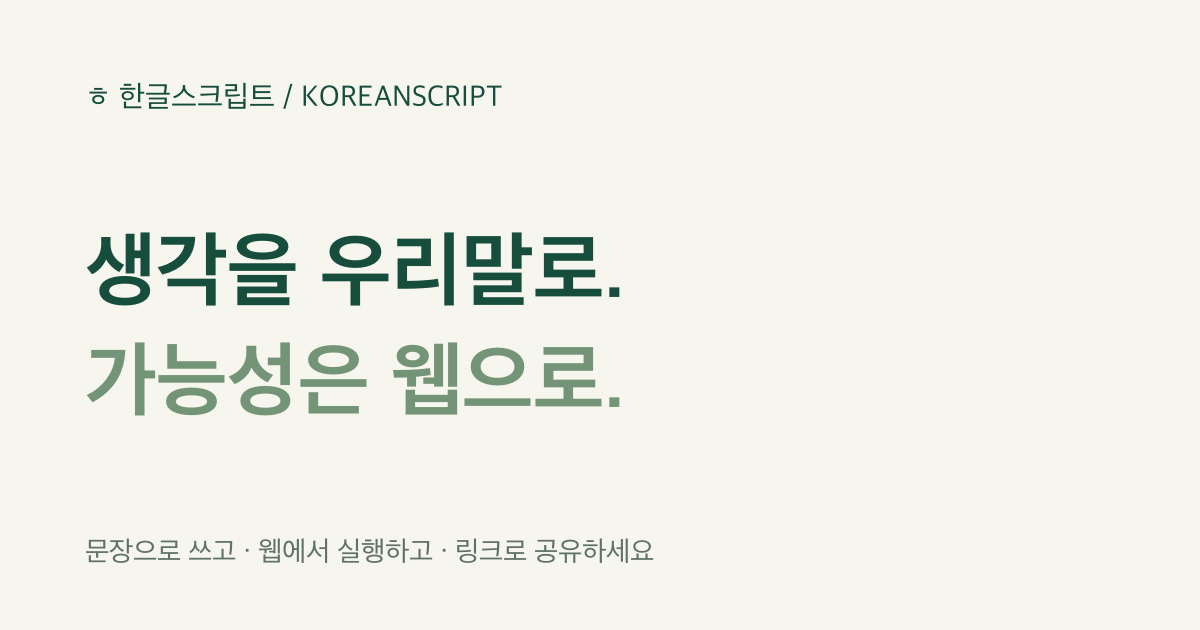
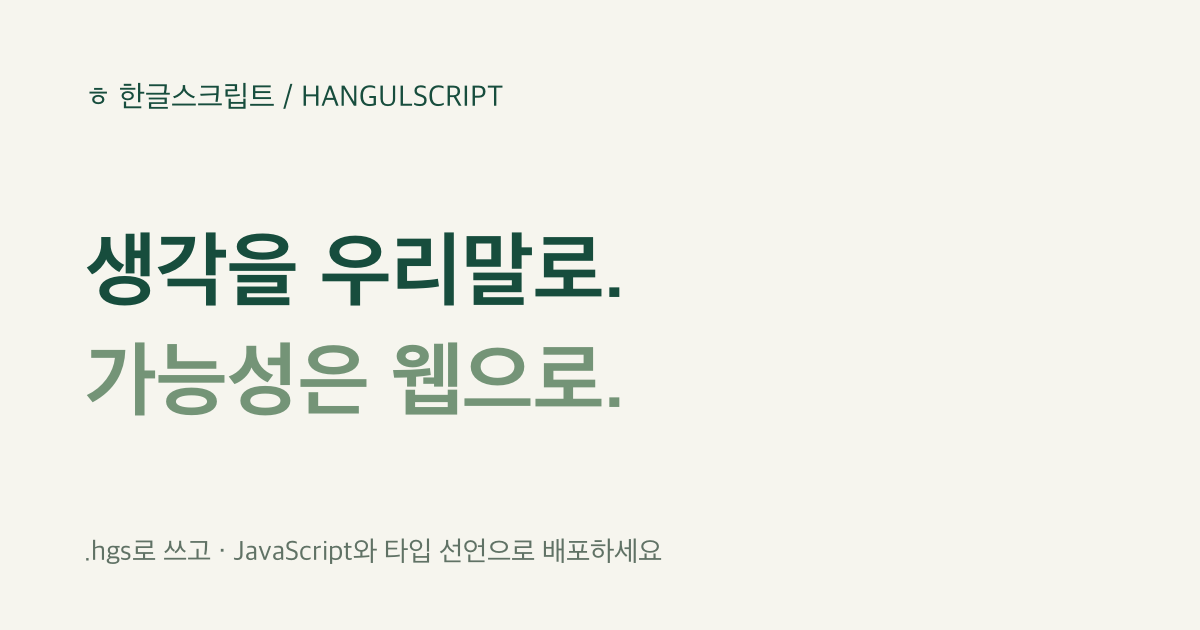
feat: rename to HangulScript with .hgs sources and new deployment identity

Changed region(s): [[0.0617, 0.8444, 0.555, 0.9048], [0.2467, 0.1206, 0.4008, 0.181]]

diff --git a/site/index.html b/site/index.html
@@ -3,23 +3,23 @@
 <head>
 <meta charset="UTF-8"><meta name="viewport" content="width=device-width,initial-scale=1">
 <title>한글스크립트 — 생각을 우리말로, 실행은 웹에서</title>
-<meta name="description" content="한글 문장으로 코딩하는 KoreanScript. 들여쓰기로 작성하고 JavaScript와 타입 선언으로 빌드하세요. 설치 없이 예제를 실행하고 코드 링크를 공유할 수 있습니다.">
-<link rel="canonical" href="https://koreanscript.vercel.app/">
-<meta property="og:title" content="한글스크립트 · 우리말로 시작하는 코드"><meta property="og:description" content="Python의 간결함과 웹의 가능성. 한글 문장을 코드로 바꾸고 공유하세요."><meta property="og:type" content="website"><meta property="og:locale" content="ko_KR"><meta property="og:url" content="https://koreanscript.vercel.app/"><meta property="og:image" content="https://koreanscript.vercel.app/og.png"><meta name="twitter:card" content="summary_large_image"><meta name="google-site-verification" content="sQbayCLifq40q8AiPmSlbnfZ_UPMLMyOuCmx8xxQyjI">
+<meta name="description" content="한글 문장으로 코딩하는 HangulScript. 들여쓰기로 작성하고 JavaScript와 타입 선언으로 빌드하세요. 설치 없이 예제를 실행하고 코드 링크를 공유할 수 있습니다.">
+<link rel="canonical" href="https://hangulscript.vercel.app/">
+<meta property="og:title" content="한글스크립트 · 우리말로 시작하는 코드"><meta property="og:description" content="Python의 간결함과 웹의 가능성. 한글 문장을 코드로 바꾸고 공유하세요."><meta property="og:type" content="website"><meta property="og:locale" content="ko_KR"><meta property="og:url" content="https://hangulscript.vercel.app/"><meta property="og:image" content="https://hangulscript.vercel.app/og.png"><meta name="twitter:card" content="summary_large_image"><meta name="google-site-verification" content="sQbayCLifq40q8AiPmSlbnfZ_UPMLMyOuCmx8xxQyjI">
 <meta name="naver-site-verification" content="686903581080affc302a02d57e276e1e5688c75b">
 <meta name="theme-color" content="#173d35">
 <link rel="icon" href="/icon.svg" type="image/svg+xml"><link rel="stylesheet" href="/style.css">
-<script type="application/ld+json">{"@context":"https://schema.org","@type":"SoftwareApplication","name":"한글스크립트","applicationCategory":"DeveloperApplication","operatingSystem":"Web","url":"https://koreanscript.vercel.app/","description":"한글 문장형 프로그래밍 언어와 온라인 실행 도구","offers":{"@type":"Offer","price":"0","priceCurrency":"KRW"},"codeRepository":"https://github.com/uiwwsw/koreanscript"}</script>
+<script type="application/ld+json">{"@context":"https://schema.org","@type":"SoftwareApplication","name":"한글스크립트","applicationCategory":"DeveloperApplication","operatingSystem":"Web","url":"https://hangulscript.vercel.app/","description":"한글 문장형 프로그래밍 언어와 온라인 실행 도구","offers":{"@type":"Offer","price":"0","priceCurrency":"KRW"},"codeRepository":"https://github.com/uiwwsw/hangulscript"}</script>
 <script type="module" src="/app.js"></script>
 </head>
 <body>
-<header><a class="brand" href="/" aria-label="한글스크립트 홈"><span class="mark">ㅎ</span> 한글스크립트 <small>0.3 실험판</small></a><nav><a href="#guide">문법 안내</a><a href="https://github.com/uiwwsw/koreanscript">GitHub ↗</a></nav></header>
+<header><a class="brand" href="/" aria-label="한글스크립트 홈"><span class="mark">ㅎ</span> 한글스크립트 <small>0.4 실험판</small></a><nav><a href="#guide">문법 안내</a><a href="https://github.com/uiwwsw/hangulscript">GitHub ↗</a></nav></header>
 <main>
-<section class="hero"><div><p class="eyebrow">KOREANSCRIPT / 생각과 코드 사이</p><h1>생각을 우리말로.<br><em>가능성은 웹으로.</em></h1><p class="intro">익숙한 문장으로 쓰고, 들여쓰기로 정리하세요.<br>Python의 간결함에 TypeScript의 웹 생태계를 더했습니다.</p><a class="primary" href="#playground">지금 한 문장 실행하기 <span>↘</span></a></div><aside class="note"><span>첫 번째 프로그램</span><pre>이름은 "세상"이다
-출력("안녕, " + 이름)</pre><div class="note-result">↳ 안녕, 세상</div><p>파일은 <b>.ks</b> · 배포는 JS + 타입 선언</p></aside></section>
+<section class="hero"><div><p class="eyebrow">HANGULSCRIPT / 생각과 코드 사이</p><h1>생각을 우리말로.<br><em>가능성은 웹으로.</em></h1><p class="intro">익숙한 문장으로 쓰고, 들여쓰기로 정리하세요.<br>Python의 간결함에 TypeScript의 웹 생태계를 더했습니다.</p><a class="primary" href="#playground">지금 한 문장 실행하기 <span>↘</span></a></div><aside class="note"><span>첫 번째 프로그램</span><pre>이름은 "세상"이다
+출력("안녕, " + 이름)</pre><div class="note-result">↳ 안녕, 세상</div><p>파일은 <b>.hgs</b> · 배포는 JS + 타입 선언</p></aside></section>
 <section id="playground" class="lab"><div class="section-head"><div><p class="eyebrow">01 / 직접 해보기</p><h2>작은 문장, 움직이는 프로그램.</h2></div><span class="pill">● 브라우저 안에서 실행</span></div>
-<div class="toolbar"><label>예제 <select id="example"><option value="calculator">도구 · 사칙연산 계산기</option><option value="discount">도구 · 할인 계산기</option><option value="statistics">도구 · 숫자 통계</option><option value="text">도구 · 문자열 정리기</option><option value="scores">문장형 · 성적 분석기</option><option value="hello">문장형 · 첫 인사</option><option value="loop">문장형 · 구구단</option><option value="legacy">기존 키워드형</option></select></label><div><button id="share">공유 링크 복사</button><button id="download">.ks 저장</button><button id="run" class="primary">실행하기 ▷</button></div></div>
-<form id="tool-inputs" class="tool-inputs" hidden aria-label="도구 입력값"></form><p class="fine">도구 입력값을 바꾸면 예제 코드가 다시 만들어집니다. 코드를 직접 편집하면 입력란은 숨겨집니다.</p><div class="editors"><div><div class="editor-label"><label for="source">내가 쓴 한글</label><span>main.ks</span></div><textarea id="source" spellcheck="false" aria-describedby="source-help"></textarea></div><div><div class="editor-label"><label for="compiled">변환된 TypeScript</label><span>main.ts</span></div><textarea id="compiled" readonly spellcheck="false"></textarea></div></div>
+<div class="toolbar"><label>예제 <select id="example"><option value="calculator">도구 · 사칙연산 계산기</option><option value="discount">도구 · 할인 계산기</option><option value="statistics">도구 · 숫자 통계</option><option value="text">도구 · 문자열 정리기</option><option value="scores">문장형 · 성적 분석기</option><option value="hello">문장형 · 첫 인사</option><option value="loop">문장형 · 구구단</option><option value="legacy">기존 키워드형</option></select></label><div><button id="share">공유 링크 복사</button><button id="download">.hgs 저장</button><button id="run" class="primary">실행하기 ▷</button></div></div>
+<form id="tool-inputs" class="tool-inputs" hidden aria-label="도구 입력값"></form><p class="fine">도구 입력값을 바꾸면 예제 코드가 다시 만들어집니다. 코드를 직접 편집하면 입력란은 숨겨집니다.</p><div class="editors"><div><div class="editor-label"><label for="source">내가 쓴 한글</label><span>main.hgs</span></div><textarea id="source" spellcheck="false" aria-describedby="source-help"></textarea></div><div><div class="editor-label"><label for="compiled">변환된 TypeScript</label><span>main.ts</span></div><textarea id="compiled" readonly spellcheck="false"></textarea></div></div>
 <div class="console"><div class="editor-label"><span>실행 결과</span><span id="status" role="status" aria-live="polite">실행을 눌러 주세요</span></div><pre id="output" aria-live="polite">여기에 프로그램의 출력이 나타납니다.</pre></div><p id="source-help" class="fine">공유된 코드는 자동 실행하지 않습니다. 실행은 격리된 환경에서 최대 2초 동안 진행됩니다. 브라우저 데모는 네트워크·DOM·외부 모듈을 제공하지 않습니다.</p>
 </section>
 <section id="guide" class="guide"><p class="eyebrow">02 / 문법의 출발점</p><h2>외울 것은 줄이고, 뜻은 또렷하게.</h2><div class="cards"><article><span>01</span><h3>문장으로 선언</h3><pre>나이는 20이다
@@ -43,6 +43,6 @@
     만약 나이 == 23 이라면:
         멈추기</pre><p>문장형 파일은 <code>문장으로 시작</code>으로 명시할 수 있습니다. 자유 자연어 해석, Python 호환 실행기, 전체 TypeScript 문법 지원을 의미하지는 않습니다. 문자열 길이는 JavaScript의 UTF-16 기준이며 정렬은 숫자 목록을 복사해 정렬합니다.</p></details>
 </section>
-<section class="share-section"><div><p class="eyebrow">03 / 만들고, 나누기</p><h2>오늘 만든 코드를<br>누군가의 첫 코드로.</h2></div><ol><li><b>예제를 바꿔 나만의 도구 만들기</b><p>계산기·할인 계산·숫자 통계·문자열 정리 예제의 입력값과 코드를 바꿔 보세요.</p></li><li><b>링크 하나로 코드 공유하기</b><p>공유 링크에는 코드가 URL 조각으로 담깁니다. 비밀 정보는 넣지 마세요.</p></li><li><b>프로젝트에 연결하기</b><p>.ks 파일을 저장하고 CLI로 실행하거나 JavaScript와 .d.ts를 생성하세요. <a href="https://github.com/uiwwsw/koreanscript#readme">설치와 활용 안내 ↗</a></p></li></ol></section>
-</main><footer><a class="brand" href="/">ㅎ 한글스크립트</a><p>우리말로 배우고, 웹으로 넓히다.</p><a href="https://github.com/uiwwsw/koreanscript/issues">의견 보내기 ↗</a></footer>
+<section class="share-section"><div><p class="eyebrow">03 / 만들고, 나누기</p><h2>오늘 만든 코드를<br>누군가의 첫 코드로.</h2></div><ol><li><b>예제를 바꿔 나만의 도구 만들기</b><p>계산기·할인 계산·숫자 통계·문자열 정리 예제의 입력값과 코드를 바꿔 보세요.</p></li><li><b>링크 하나로 코드 공유하기</b><p>공유 링크에는 코드가 URL 조각으로 담깁니다. 비밀 정보는 넣지 마세요.</p></li><li><b>프로젝트에 연결하기</b><p>.hgs 파일을 저장하고 CLI로 실행하거나 JavaScript와 .d.ts를 생성하세요. <a href="https://github.com/uiwwsw/hangulscript#readme">설치와 활용 안내 ↗</a></p></li></ol></section>
+</main><footer><a class="brand" href="/">ㅎ 한글스크립트</a><p>우리말로 배우고, 웹으로 넓히다.</p><a href="https://github.com/uiwwsw/hangulscript/issues">의견 보내기 ↗</a></footer>
 </body></html>

diff --git a/src/cli.js b/src/cli.js
@@ -6,8 +6,8 @@ import path from 'node:path';
 
 function usage() {
   console.log(`사용법:
-  ksc [build] [옵션] <파일.ks ...>  JavaScript와 .d.ts 생성
-  ksc run <파일.ks> [-- 인자 ...]   파일 없이 Node.js로 직접 실행
+  ksc [build] [옵션] <파일.hgs ...>  JavaScript와 .d.ts 생성
+  ksc run <파일.hgs> [-- 인자 ...]   파일 없이 Node.js로 직접 실행
 
 옵션:
   -o, --out-dir <경로>   출력 디렉터리 (기본: 입력 파일 옆)
@@ -34,13 +34,13 @@ async function main() {
     } else if (arg === '--check') check = true;
     else if (arg === '--typescript') typescript = true;
     else if (arg.startsWith('-')) throw new Error(`알 수 없는 옵션: ${arg}`);
-    else if (!arg.endsWith('.ks')) throw new Error('입력 파일은 .ks 확장자여야 합니다.');
+    else if (!(/\.(?:hgs|ks)$/.test(arg))) throw new Error('입력 파일은 .hgs 확장자여야 합니다.');
     else inputs.push(arg);
   }
-  if (!inputs.length) throw new Error('입력 .ks 파일을 지정하세요.');
+  if (!inputs.length) throw new Error('입력 .hgs 파일을 지정하세요.');
   if (check && (outDir || typescript)) throw new Error('--check는 출력 옵션과 함께 사용할 수 없습니다.');
   if (mode === 'run') {
-    if (inputs.length !== 1 || outDir || typescript || check) throw new Error('run에는 .ks 파일 하나와 -- 뒤의 실행 인자만 지정하세요.');
+    if (inputs.length !== 1 || outDir || typescript || check) throw new Error('run에는 .hgs 파일 하나와 -- 뒤의 실행 인자만 지정하세요.');
     const input = path.resolve(inputs[0]);
     const { javascript } = buildSource(await readFile(input, 'utf8'), input);
     const child = spawn(process.execPath, ['--input-type=module', '-', ...programArgs], {
@@ -58,7 +58,7 @@ async function main() {
   }
   const destinations = new Set();
   for (const input of inputs) {
-    const destination = path.resolve(outDir ?? path.dirname(input), path.basename(input, '.ks'));
+    const destination = path.resolve(outDir ?? path.dirname(input), path.parse(input).name);
     if (destinations.has(destination)) throw new Error('출력 파일 이름이 겹칩니다. 파일별로 다른 출력 디렉터리를 사용하세요.');
     destinations.add(destination);
   }
@@ -68,7 +68,7 @@ async function main() {
       if (result.hasErrors) throw new Error(result.formattedDiagnostics);
       console.log(`✅ ${input} 문제 없음`);
     } else if (typescript) {
-      const output = outDir ? path.join(outDir, path.basename(input, '.ks') + '.ts') : null;
+      const output = outDir ? path.join(outDir, path.parse(input).name + '.ts') : null;
       const written = output ? (await compileFile(input, output), output) : await compileFileToDefaultDestination(input);
       console.log(`✅ ${written} 생성됨`);
     } else {

diff --git a/src/index.js b/src/index.js
@@ -117,7 +117,7 @@ export async function compileFileToDefaultDestination(inputPath) {
   return outputPath;
 }
 
-export function lintSource(source, filePath = 'input.ks', compilerOptions) {
+export function lintSource(source, filePath = 'input.hgs', compilerOptions) {
   const ts = loadTypeScriptModule();
   const options = compilerOptions ?? getDefaultCompilerOptions(ts);
   const compiled = compileSource(source);
@@ -139,9 +139,9 @@ export async function lintFile(inputPath, compilerOptions) {
 export { compileSource };
 
 /** Compile through TypeScript once, emitting executable JS and declarations in memory. */
-export function buildSource(source, filePath = 'input.ks') {
+export function buildSource(source, filePath = 'input.hgs') {
   const ts = loadTypeScriptModule();
-  const virtualPath = path.resolve(filePath).replace(/\.ks$/i, '') + '.ts';
+  const virtualPath = path.resolve(filePath).replace(/\.(?:hgs|ks)$/i, '') + '.ts';
   const compiled = compileSource(source);
   const options = {
     target: ts.ScriptTarget.ES2022,
@@ -171,7 +171,7 @@ export function buildSource(source, filePath = 'input.ks') {
 export async function buildFile(inputPath, outputDirectory = path.dirname(inputPath)) {
   const source = await readFile(inputPath, 'utf8');
   const result = buildSource(source, inputPath);
-  const base = path.basename(inputPath, '.ks');
+  const base = path.parse(inputPath).name;
   await mkdir(outputDirectory, { recursive: true });
   const javascriptPath = path.join(outputDirectory, base + '.js');
   const declarationPath = path.join(outputDirectory, base + '.d.ts');

diff --git a/test/cli.test.js b/test/cli.test.js
@@ -8,11 +8,16 @@ const cli=path.resolve('src/cli.js');
 test('CLI builds executable ESM and declarations, runs without files, keeps TS option', async()=>{
   const dir=await mkdtemp(path.join(tmpdir(),'ks-cli-'));
   try {
-    const input=path.join(dir,'math.ks');
+    const input=path.join(dir,'math.hgs');
     await writeFile(input,'문장으로 시작\n더함(가: 숫자, 나: 숫자)를 정의한다:\n    돌려주기 가 + 나\n내보내기 { 더함 }\n출력(더함(2, 3))');
     let result=spawnSync(process.execPath,[cli,'run',input],{encoding:'utf8'});
     assert.equal(result.status,0,result.stderr); assert.equal(result.stdout.trim(),'5');
     await assert.rejects(readFile(path.join(dir,'math.js')),{code:'ENOENT'});
+    const legacy=path.join(dir,'legacy.ks');
+    await writeFile(legacy,await readFile(input,'utf8'));
+    const old=spawnSync(process.execPath,[cli,'build',legacy],{encoding:'utf8'});
+    assert.equal(old.status,0,old.stderr);
+    assert.match(await readFile(path.join(dir,'legacy.d.ts'),'utf8'),/더함/);
     result=spawnSync(process.execPath,[cli,'build',input],{encoding:'utf8'});
     assert.equal(result.status,0,result.stderr);
     assert.match(await readFile(path.join(dir,'math.d.ts'),'utf8'),/더함\(가: number, 나: number\): number/);

diff --git a/scripts/build-site.js b/scripts/build-site.js
@@ -1,6 +1,6 @@
 import { build } from 'esbuild';
 import { cp, mkdir, rm, writeFile } from 'node:fs/promises';
-const origin = process.env.SITE_URL || 'https://koreanscript.vercel.app';
+const origin = process.env.SITE_URL || 'https://hangulscript.vercel.app';
 if (!/^https:\/\/[a-z0-9.-]+$/i.test(origin)) throw new Error('SITE_URL must be an HTTPS origin');
 await rm('site-dist', { recursive: true, force: true });
 await mkdir('site-dist');
@@ -9,4 +9,4 @@ await build({ entryPoints: ['site/app.js', 'site/compiler-worker.js'], bundle: t
 await writeFile('site-dist/robots.txt', `User-agent: *\nAllow: /\nSitemap: ${origin}/sitemap.xml\n`);
 await writeFile('site-dist/sitemap.xml', `<?xml version="1.0" encoding="UTF-8"?><urlset xmlns="http://www.sitemaps.org/schemas/sitemap/0.9"><url><loc>${origin}/</loc></url></urlset>`);
 const { readFile } = await import('node:fs/promises');
-await writeFile('site-dist/index.html', (await readFile('site/index.html', 'utf8')).replaceAll('https://koreanscript.vercel.app', origin));
+await writeFile('site-dist/index.html', (await readFile('site/index.html', 'utf8')).replaceAll('https://hangulscript.vercel.app', origin));

diff --git a/site/app.js b/site/app.js
@@ -178,7 +178,7 @@ $('share').addEventListener('click', async () => {
 });
 $('download').addEventListener('click', () => {
   const url = URL.createObjectURL(new Blob([$('source').value], { type: 'text/plain;charset=utf-8' }));
-  const link = document.createElement('a'); link.href = url; link.download = 'main.ks'; link.click();
+  const link = document.createElement('a'); link.href = url; link.download = 'main.hgs'; link.click();
   setTimeout(() => URL.revokeObjectURL(url), 1000);
 });
 if (!location.hash.startsWith('#code=')) selectExample(); else transform();

diff --git a/test/lint.test.js b/test/lint.test.js
@@ -8,7 +8,7 @@ const validSample = `상수 값: 숫자 = 1;
 }`;
 
 test('lintSource reports no diagnostics for valid code', () => {
-  const result = lintSource(validSample, '예시.ks');
+  const result = lintSource(validSample, '예시.hgs');
   assert.equal(result.hasErrors, false);
   assert.equal(result.diagnostics.length, 0);
 });

diff --git a/src/transformer.d.ts b/src/transformer.d.ts
@@ -1,2 +1,2 @@
-/** Convert keyword-style or sentence-style .ks source into TypeScript. */
+/** Convert keyword-style or sentence-style .hgs source into TypeScript. */
 export function compileSource(source: string): string;
